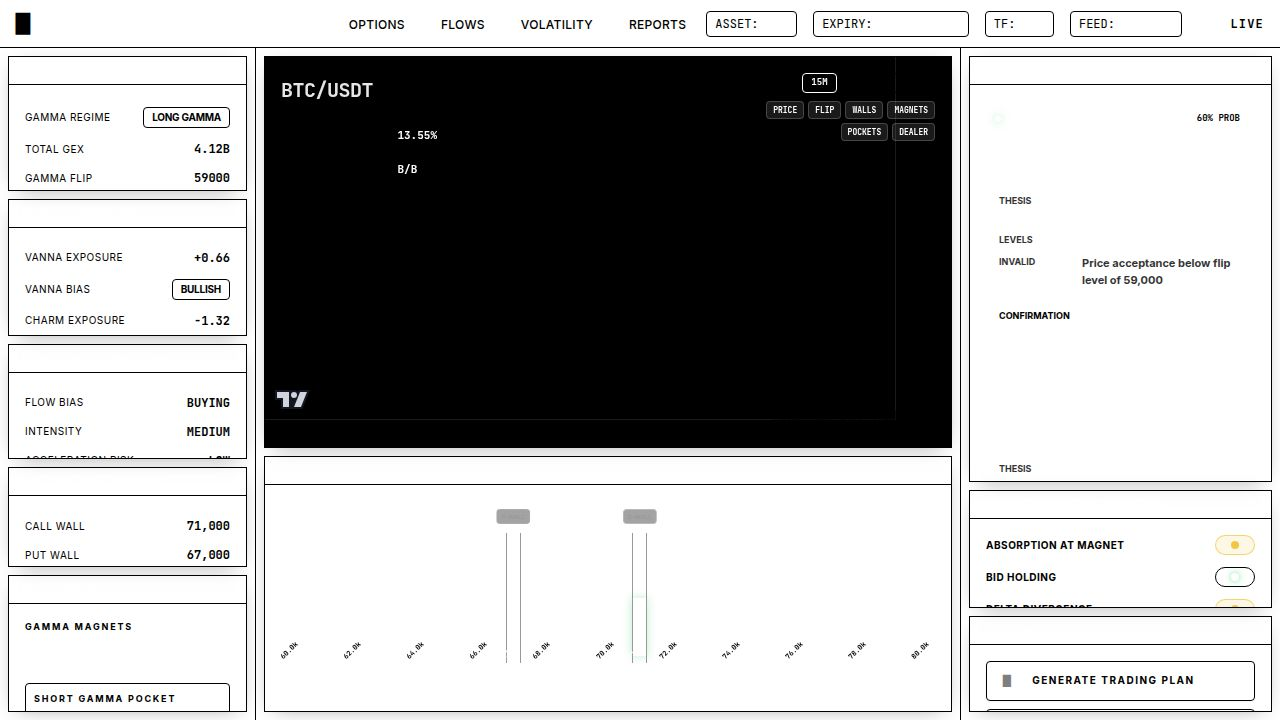
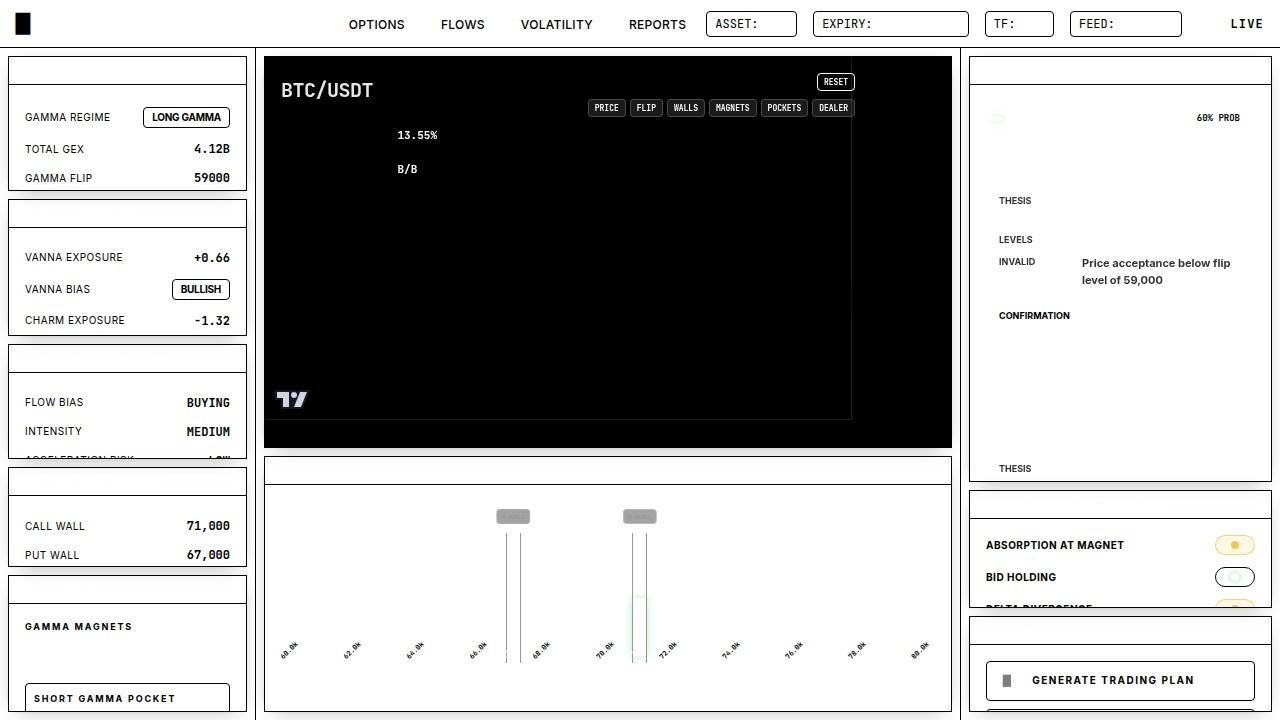
Add manual scale controls for chart vertical navigation
Implements manual chart scaling controls including reset, fit levels, zoom, and pan functionality within MainChart.tsx.

Replit-Commit-Author: Agent
Replit-Commit-Session-Id: f6c5170a-22e2-47a2-be42-87f4565b3f5b
Replit-Commit-Checkpoint-Type: full_checkpoint
Replit-Commit-Event-Id: f5489932-2faa-4b47-9e7a-086cdff85393
Replit-Commit-Screenshot-Url: https://storage.googleapis.com/screenshot-production-us-central1/0816ca60-048d-4c47-9f02-2b324f40955c/f6c5170a-22e2-47a2-be42-87f4565b3f5b/FowHkYw
Replit-Helium-Checkpoint-Created: true

Changed region(s): [[0.4375, 0.0917, 0.75, 0.2139], [0.8438, 0.3667, 0.9062, 0.3972]]

diff --git a/client/src/components/terminal/MainChart.tsx b/client/src/components/terminal/MainChart.tsx
@@ -29,6 +29,61 @@ export function MainChart() {
     setIsInitialLoad(true);
   };
 
+  const fitLevels = () => {
+    if (!chartRef.current || !candles || candles.length === 0) return;
+    const currentPrice = candles[candles.length - 1].close;
+    const threshold = currentPrice * 0.15;
+    const points: number[] = [currentPrice];
+
+    if (market?.gammaFlip) points.push(market.gammaFlip);
+    if (market?.transitionZoneStart) points.push(market.transitionZoneStart);
+    if (market?.transitionZoneEnd) points.push(market.transitionZoneEnd);
+    if (positioning?.callWall) points.push(positioning.callWall);
+    if (positioning?.putWall) points.push(positioning.putWall);
+    if (positioning?.dealerPivot) points.push(positioning.dealerPivot);
+    if (levels?.gammaMagnets) points.push(...levels.gammaMagnets);
+    if (levels?.shortGammaPocketStart) points.push(levels.shortGammaPocketStart);
+    if (levels?.shortGammaPocketEnd) points.push(levels.shortGammaPocketEnd);
+    if (levels?.deepRiskPocketStart) points.push(levels.deepRiskPocketStart);
+    if (levels?.deepRiskPocketEnd) points.push(levels.deepRiskPocketEnd);
+
+    const filteredPoints = points.filter(p => Math.abs(p - currentPrice) <= threshold);
+    if (filteredPoints.length > 0) {
+      const min = Math.min(...filteredPoints);
+      const max = Math.max(...filteredPoints);
+      const margin = (max - min) * 0.1 || currentPrice * 0.01;
+      chartRef.current.priceScale("right").setVisibleRange({
+        from: min - margin,
+        to: max + margin
+      });
+    }
+  };
+
+  const zoomVertical = (factor: number) => {
+    if (!chartRef.current) return;
+    const scale = chartRef.current.priceScale("right");
+    const range = scale.getVisiblePriceRange();
+    if (!range) return;
+    const center = (range.from + range.to) / 2;
+    const halfHeight = ((range.to - range.from) / 2) * factor;
+    scale.setVisibleRange({
+      from: center - halfHeight,
+      to: center + halfHeight
+    });
+  };
+
+  const panVertical = (direction: number) => {
+    if (!chartRef.current) return;
+    const scale = chartRef.current.priceScale("right");
+    const range = scale.getVisiblePriceRange();
+    if (!range) return;
+    const shift = (range.to - range.from) * 0.1 * direction;
+    scale.setVisibleRange({
+      from: range.from + shift,
+      to: range.to + shift
+    });
+  };
+
 
   const { data: positioning } = useQuery<OptionsPositioning>({ 
     queryKey: ["/api/options-positioning"],
@@ -415,14 +470,14 @@ export function MainChart() {
                   {tf}
                 </button>
               ))}
+              <button onClick={() => panVertical(1)} className="px-1.5 py-0.5 text-[8px] font-bold font-mono border rounded-sm uppercase bg-terminal-panel border-terminal-border text-terminal-muted hover:text-white">PAN UP</button>
+              <button onClick={() => panVertical(-1)} className="px-1.5 py-0.5 text-[8px] font-bold font-mono border rounded-sm uppercase bg-terminal-panel border-terminal-border text-terminal-muted hover:text-white">PAN DN</button>
+              <button onClick={() => zoomVertical(0.8)} className="px-1.5 py-0.5 text-[8px] font-bold font-mono border rounded-sm uppercase bg-terminal-panel border-terminal-border text-terminal-muted hover:text-white text-terminal-positive">ZOOM +</button>
+              <button onClick={() => zoomVertical(1.2)} className="px-1.5 py-0.5 text-[8px] font-bold font-mono border rounded-sm uppercase bg-terminal-panel border-terminal-border text-terminal-muted hover:text-white text-terminal-negative">ZOOM -</button>
+              <button onClick={fitLevels} className="px-1.5 py-0.5 text-[8px] font-bold font-mono border rounded-sm uppercase bg-terminal-accent/10 border-terminal-accent/30 text-terminal-accent hover:bg-terminal-accent/20">FIT LEVELS</button>
+              <button onClick={resetScale} className="px-1.5 py-0.5 text-[8px] font-bold font-mono border rounded-sm uppercase bg-terminal-accent/20 border-terminal-accent text-white hover:bg-terminal-accent/40">RESET</button>
             </div>
-            <div className="flex flex-wrap justify-end gap-1 max-w-[200px]">
-              <button 
-                onClick={resetScale}
-                className="px-1.5 py-0.5 text-[8px] font-bold font-mono border rounded-sm uppercase bg-terminal-accent/20 border-terminal-accent text-white hover:bg-terminal-accent/40"
-              >
-                Reset Scale
-              </button>
+            <div className="flex space-x-1">
               {Object.entries(toggles).map(([key, val]) => (
                 <button 
                   key={key} 
